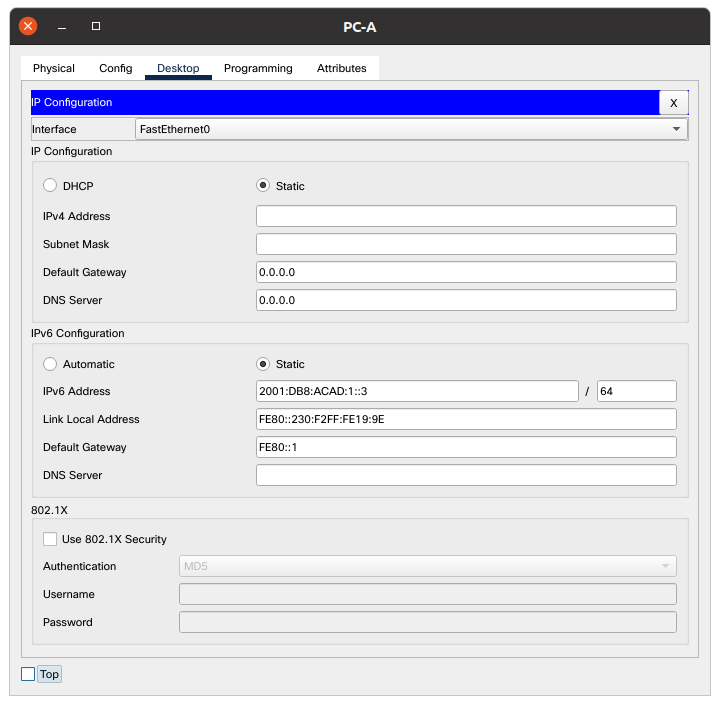
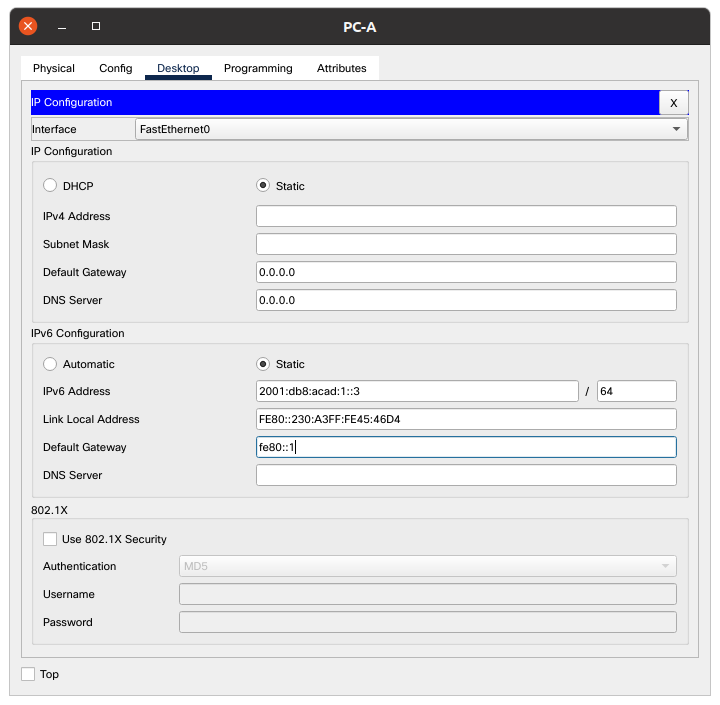
fix lab04

diff --git a/labs/lab04/README.md b/labs/lab04/README.md
@@ -25,10 +25,12 @@ R1(config)#
 R1(config)#line console 0
 R1(config-line)#password cisco
 R1(config-line)#login
+R1(config-line)#logging synchronous
 R1(config-line)#exit
 R1(config)#line vty 0 4
 R1(config-line)#password cisco
 R1(config-line)#login
+R1(config-line)#logging synchronous
 R1(config-line)#exit
 R1(config)#enable secret class
 R1(config)#
@@ -52,10 +54,12 @@ Unauthorized access is strictly prohibited. #
 S1(config)#line console 0
 S1(config-line)#password cisco
 S1(config-line)#login
+S1(config-line)#logging synchronous
 S1(config-line)#exit
 S1(config)#line vty 0 4
 S1(config-line)#password cisco
 S1(config-line)#login
+S1(config-line)#logging synchronous
 S1(config-line)#exit
 S1(config)#enable secret class
 S1(config)#
@@ -70,7 +74,6 @@ S1(config)#
 ```shell
 R1(config)#interface g0/0/0
 R1(config-if)#ipv6 address 2001:db8:acad:a::1/64
-R1(config-if)#ipv6 enable 
 R1(config-if)#no shutdown 
 
 R1(config-if)#
@@ -83,7 +86,6 @@ R1(config-if)#
 R1(config-if)#
 R1(config)#interface g0/0/1
 R1(config-if)#ipv6 address 2001:db8:acad:1::1/64
-R1(config-if)#ipv6 enable 
 R1(config-if)#no shutdown 
 
 R1(config-if)#
@@ -100,12 +102,12 @@ R1(config-if)#
 Примечание. Отображаемый локальный адрес канала основан на адресации EUI-64, которая автоматически использует MAC-адрес интерфейса для создания 128-битного локального IPv6-адреса канала.
 
 ```shell
-R1#show ipv6 interface brief 
+R1#show ipv6  interface brief 
 GigabitEthernet0/0/0       [up/up]
-    FE80::2E0:F7FF:FED6:A101
+    FE80::2D0:FFFF:FE25:C301
     2001:DB8:ACAD:A::1
 GigabitEthernet0/0/1       [up/up]
-    FE80::2E0:F7FF:FED6:A102
+    FE80::2D0:FFFF:FE25:C302
     2001:DB8:ACAD:1::1
 GigabitEthernet0/0/2       [administratively down/down]
     unassigned
@@ -120,8 +122,6 @@ R1#
 
 ```shell
 R1(config)#interface g0/0/0
-R1(config-if)#ipv
-R1(config-if)#ipv6 add
 R1(config-if)#ipv6 address fe80::1 link-local
 R1(config-if)#exit
 R1(config)#interface g0/0/1
@@ -149,7 +149,24 @@ R1#
 
 > Какие группы многоадресной рассылки назначены интерфейсу G0/0?
 
-???
+```shell
+R1#show ipv6 interface g0/0/0
+GigabitEthernet0/0/0 is up, line protocol is up
+  IPv6 is enabled, link-local address is FE80::1
+  No Virtual link-local address(es):
+  Global unicast address(es):
+    2001:DB8:ACAD:A::1, subnet is 2001:DB8:ACAD:A::/64
+  Joined group address(es):
+    FF02::1
+    FF02::1:FF00:1
+  MTU is 1500 bytes
+  ICMP error messages limited to one every 100 milliseconds
+  ICMP redirects are enabled
+  ICMP unreachables are sent
+  ND DAD is enabled, number of DAD attempts: 1
+  ND reachable time is 30000 milliseconds
+R1#
+```
 
 ### 2.2 Активируйте IPv6-маршрутизацию на R1.
 
@@ -161,7 +178,7 @@ C:\>ipconfig
 FastEthernet0 Connection:(default port)
 
    Connection-specific DNS Suffix..: 
-   Link-local IPv6 Address.........: FE80::2E0:B0FF:FE93:6E
+   Link-local IPv6 Address.........: FE80::200:CFF:FEAC:E020
    IPv6 Address....................: ::
    IPv4 Address....................: 0.0.0.0
    Subnet Mask.....................: 0.0.0.0
@@ -183,13 +200,62 @@ C:\>
 
 > Назначен ли индивидуальный IPv6-адрес сетевой интерфейсной карте (NIC) на PC-B?
 
-???
+Нет.
 
 > 2.b Активируйте IPv6-маршрутизацию на R1 с помощью команды IPv6 unicast-routing.
 
 ```shell
 R1(config)#ipv6 unicast-routing
 R1(config)#
+```
+
+Проверяем группы R1:
+
+```shell
+R1#show ipv6  interface
+GigabitEthernet0/0/0 is up, line protocol is up
+  IPv6 is enabled, link-local address is FE80::1
+  No Virtual link-local address(es):
+  Global unicast address(es):
+    2001:DB8:ACAD:A::1, subnet is 2001:DB8:ACAD:A::/64
+  Joined group address(es):
+    FF02::1
+    FF02::2
+    FF02::1:FF00:1
+  MTU is 1500 bytes
+  ICMP error messages limited to one every 100 milliseconds
+  ICMP redirects are enabled
+  ICMP unreachables are sent
+  ND DAD is enabled, number of DAD attempts: 1
+  ND reachable time is 30000 milliseconds
+  ND advertised reachable time is 0 (unspecified)
+  ND advertised retransmit interval is 0 (unspecified)
+  ND router advertisements are sent every 200 seconds
+  ND router advertisements live for 1800 seconds
+  ND advertised default router preference is Medium
+  Hosts use stateless autoconfig for addresses.
+GigabitEthernet0/0/1 is up, line protocol is up
+  IPv6 is enabled, link-local address is FE80::1
+  No Virtual link-local address(es):
+  Global unicast address(es):
+    2001:DB8:ACAD:1::1, subnet is 2001:DB8:ACAD:1::/64
+  Joined group address(es):
+    FF02::1
+    FF02::2
+    FF02::1:FF00:1
+  MTU is 1500 bytes
+  ICMP error messages limited to one every 100 milliseconds
+  ICMP redirects are enabled
+  ICMP unreachables are sent
+  ND DAD is enabled, number of DAD attempts: 1
+  ND reachable time is 30000 milliseconds
+  ND advertised reachable time is 0 (unspecified)
+  ND advertised retransmit interval is 0 (unspecified)
+  ND router advertisements are sent every 200 seconds
+  ND router advertisements live for 1800 seconds
+  ND advertised default router preference is Medium
+  Hosts use stateless autoconfig for addresses.
+R1#
 ```
 
 > 2.c Теперь, когда R1 входит в группу многоадресной рассылки всех маршрутизаторов, еще раз введите команду ipconfig на PC-B. Проверьте данные IPv6-адреса.
@@ -200,11 +266,11 @@ C:\>ipconfig
 FastEthernet0 Connection:(default port)
 
    Connection-specific DNS Suffix..: 
-   Link-local IPv6 Address.........: FE80::2E0:B0FF:FE93:6E
-   IPv6 Address....................: ::
+   Link-local IPv6 Address.........: FE80::200:CFF:FEAC:E020
+   IPv6 Address....................: 2001:DB8:ACAD:A:200:CFF:FEAC:E020
    IPv4 Address....................: 0.0.0.0
    Subnet Mask.....................: 0.0.0.0
-   Default Gateway.................: ::
+   Default Gateway.................: FE80::1
                                      0.0.0.0
 
 Bluetooth Connection:
@@ -222,13 +288,11 @@ C:\>
 
 > Почему PC-B получил глобальный префикс маршрутизации и идентификатор подсети, которые вы настроили на R1?
 
-???
+Механизм динамической адресации для GUAs IPv6.
 
 ### 2.3 Назначьте IPv6-адреса интерфейсу управления (SVI) на S1.
 
 > 3.a Назначьте адрес IPv6 для S1. Также назначьте этому интерфейсу локальный адрес канала.
-
-??? Почему работали запросы без назначения адреса?
 
 ```shell
 S1(config)#sdm prefer dual-ipv4-and-ipv6 default
@@ -256,14 +320,14 @@ S1(config-if)#
 ```shell
 S1#show ipv6 interface vlan 1
 Vlan1 is up, line protocol is up
-  IPv6 is enabled, link-local address is FE80::201:43FF:FE22:4613
+  IPv6 is enabled, link-local address is FE80::1:1
   No Virtual link-local address(es):
   Global unicast address(es):
     2001:DB8:ACAD:1::B, subnet is 2001:DB8:ACAD:1::/64
   Joined group address(es):
     FF02::1
     FF02::1:FF00:B
-    FF02::1:FF22:4613
+    FF02::1:FF01:1
   MTU is 1500 bytes
   ICMP error messages limited to one every 100 milliseconds
   ICMP redirects are enabled
@@ -290,7 +354,7 @@ C:\>ipconfig
 FastEthernet0 Connection:(default port)
 
    Connection-specific DNS Suffix..: 
-   Link-local IPv6 Address.........: FE80::230:F2FF:FE19:9E
+   Link-local IPv6 Address.........: FE80::230:A3FF:FE45:46D4
    IPv6 Address....................: 2001:DB8:ACAD:1::3
    IPv4 Address....................: 0.0.0.0
    Subnet Mask.....................: 0.0.0.0
@@ -320,7 +384,7 @@ C:\>ipconfig
 FastEthernet0 Connection:(default port)
 
    Connection-specific DNS Suffix..: 
-   Link-local IPv6 Address.........: FE80::2E0:B0FF:FE93:6E
+   Link-local IPv6 Address.........: FE80::200:CFF:FEAC:E020
    IPv6 Address....................: 2001:DB8:ACAD:A::3
    IPv4 Address....................: 0.0.0.0
    Subnet Mask.....................: 0.0.0.0
@@ -383,8 +447,6 @@ C:\>
 ```
 
 > Введите команду tracert на PC-A, чтобы проверить наличие сквозного подключения к PC-B.
-
-??? Что означает вывод этой команды?
 
 ```shell
 C:\>tracert 2001:DB8:ACAD:A::3
